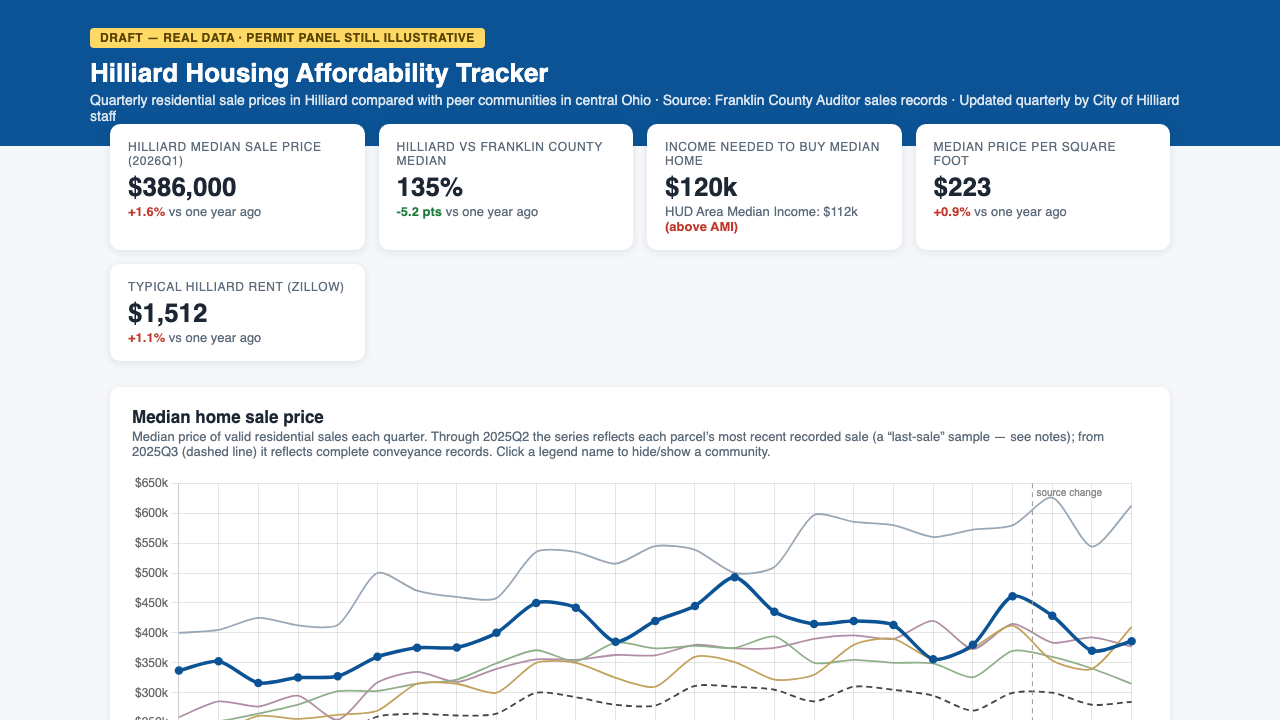
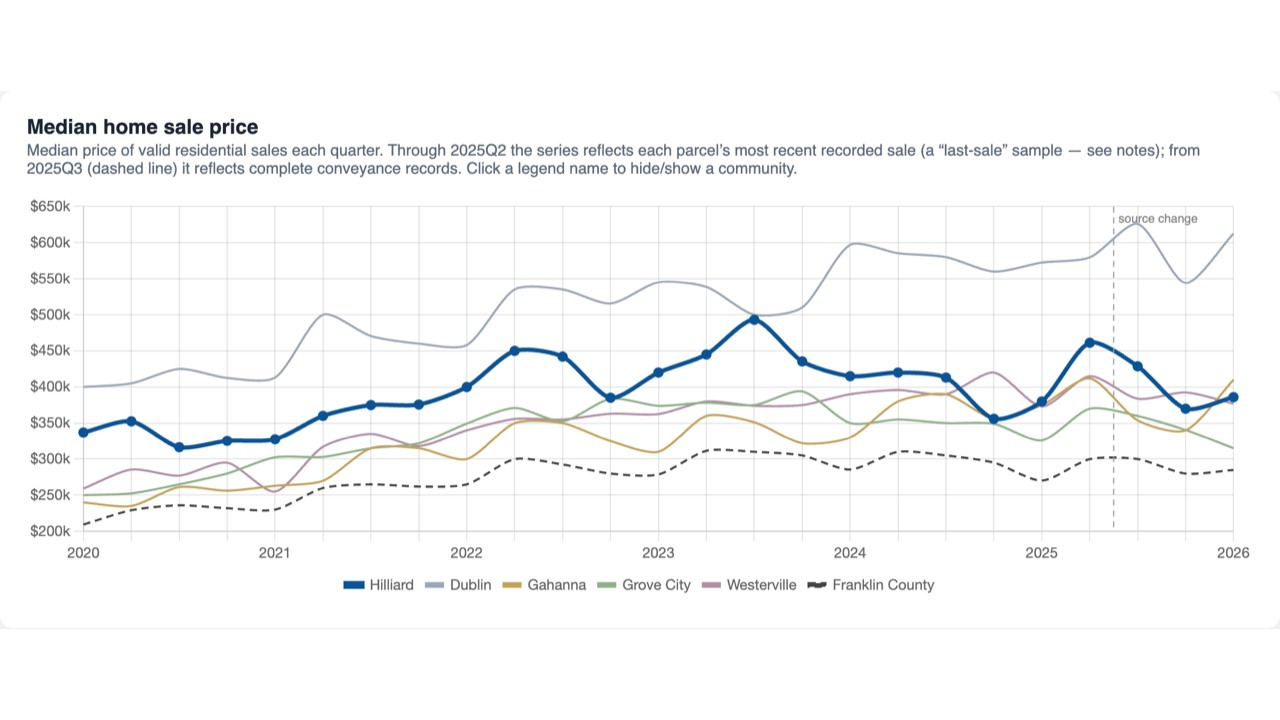
Refresh Data & Tools thumbnails for Hilliard and NLCD
- Update the Hilliard tile image to the current "Median home sale price"
  chart (the old one predated the page redesign)
- Add a preview image for the NLCD agricultural-land-loss tile (a grab of
  the interactive Ohio map) and switch the tile from a text label to the
  image, matching the Ohio urbanization tile

diff --git a/data.md b/data.md
@@ -44,7 +44,7 @@ description: "Interactive tools, data insights, and datasets on Ohio rural-urban
       </a>
 
       <a class="tool-card" href="{{ '/data/insights/nlcd-agricultural-land-loss/' | relative_url }}">
-        <div class="tool-thumb"><span class="tool-thumb-label">Agricultural Land Loss (NLCD)</span></div>
+        <img class="tool-thumb" src="{{ '/assets/img/tools/nlcd-agricultural-land-loss.png' | relative_url }}" alt="Map of Ohio agricultural land cover with areas of loss and conversion to development">
         <div class="tool-card-body">
           <p class="tool-tag">Interactive map</p>
           <h3>Tracking agricultural land loss with NLCD</h3>